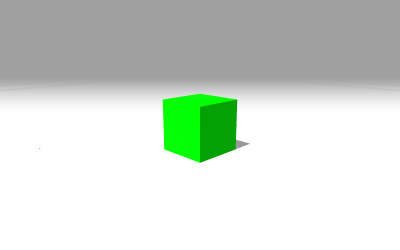
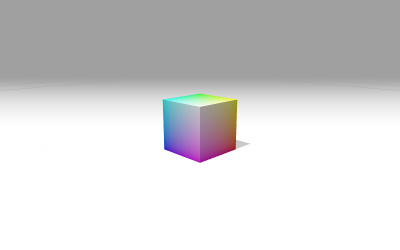
PLYExporter Example: Add vertex colors for testing (#23375)
* Add vertex colors to ply exporter example

* update screenshot

Changed region(s): [[0.39, 0.364, 0.63, 0.672]]

diff --git a/examples/misc_exporter_ply.html b/examples/misc_exporter_ply.html
@@ -77,7 +77,17 @@
 				// export mesh
 
 				const geometry = new THREE.BoxGeometry( 50, 50, 50 );
-				const material = new THREE.MeshPhongMaterial( { color: 0x00ff00 } );
+				const material = new THREE.MeshPhongMaterial( { vertexColors: true } );
+
+				// color vertices based on vertex positions
+				const colors = geometry.getAttribute( 'position' ).array.slice();
+				for ( let i = 0, l = colors.length; i < l; i ++ ) {
+
+					if ( colors[ i ] > 0 ) colors[ i ] = 0.5;
+					else colors[ i ] = 0;
+
+				}
+				geometry.setAttribute( 'color', new THREE.BufferAttribute( colors, 3, false ) );
 
 				mesh = new THREE.Mesh( geometry, material );
 				mesh.castShadow = true;
@@ -87,6 +97,7 @@
 				//
 
 				renderer = new THREE.WebGLRenderer( { antialias: true } );
+				renderer.outputEncoding = THREE.sRGBEncoding;
 				renderer.setPixelRatio( window.devicePixelRatio );
 				renderer.setSize( window.innerWidth, window.innerHeight );
 				renderer.shadowMap.enabled = true;
